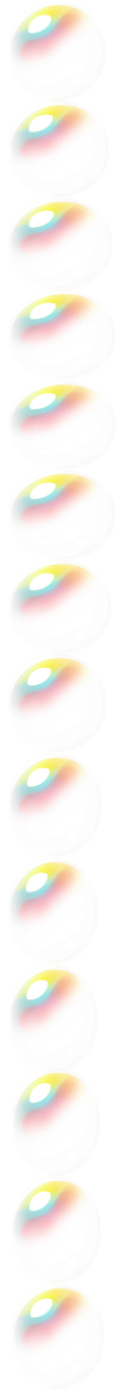
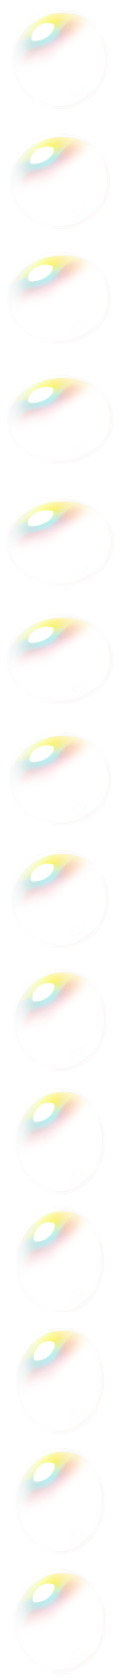
Working bubble animation

Changed region(s): [[0.1, 0.2778, 0.75, 0.8952], [0.125, 0.0, 0.725, 0.2469], [0.15, 0.9261, 0.675, 0.9878]]

diff --git a/src/GameObjects/Bubble.cpp b/src/GameObjects/Bubble.cpp
@@ -3,7 +3,9 @@
 
 Bubble::Bubble(const Data& ObjectData, World& world, const sf::Texture& texture) 
     : ClickableObject(ObjectData, texture),
-    m_animation(ResourceManager::getInstance().getAnimation(ObjectData.m_type), this->getSprite())
+    m_animation(ResourceManager::getInstance().getAnimation(ObjectData.m_type), 
+        this->getSprite(),
+        true)
 {
 
     //TODO CHANGE SETTINGS IF NEEDED
@@ -12,14 +14,9 @@ Bubble::Bubble(const Data& ObjectData, World& world, const sf::Texture& texture)
 
     bodyDef.type = b2_staticBody; // Set the body type to dynamic
     bodyDef.position.Set(ObjectData.m_pos.x / SCALE , (WINDOW_MANAGER_HEIGHT - ObjectData.m_pos.y) / SCALE); // Set the initial position
-    bodyDef.angle = 0.0f; // Set the initial angle
-    bodyDef.linearVelocity.Set(0.0f, 0.0f); // Set the initial linear velocity
-    bodyDef.angularVelocity = 0.0f; // Set the initial angular velocity
-    bodyDef.linearDamping = 0.0f; // Set the linear damping
-    bodyDef.angularDamping = 0.0f; // Set the angular damping
 
     b2CircleShape circleShape;
-    circleShape.m_radius = texture.getSize().x / 2.0f / SCALE; // Set the radius (assuming square texture)
+    circleShape.m_radius = BUBBLE_SIZE.x / 2.0f / SCALE; // Set the radius (assuming square texture)
 
     // Define the fixture
 
@@ -40,6 +37,7 @@ Bubble::Bubble(const Data& ObjectData, World& world, const sf::Texture& texture)
 
 void Bubble::changeToDynamic()
 {
+    this->m_animation.setAnimationFlag(true);
     this->setToDynamic();
     this->SetLinearVelocity(BUBBLE_VELOCITY);
 }
@@ -49,6 +47,7 @@ void Bubble::update(sf::Time& deltaTime)
     if (this->getBody()->GetType() == b2_dynamicBody)
     {
         this->getBody()->ApplyForceToCenter(BUBBLE_FORCE, true);
+        this->m_animation.update(deltaTime);
     }
 
     b2Vec2 position = this->getBody()->GetPosition();

diff --git a/src/Animations/Animation.cpp b/src/Animations/Animation.cpp
@@ -3,15 +3,15 @@
 
 const auto AnimationTime = sf::seconds(0.08f);
 
-Animation::Animation(const ListOfFrames& data, sf::Sprite& sprite)
-    : m_data(data), m_sprite(sprite), m_animationFlag(false)
+Animation::Animation(const ListOfFrames& data, sf::Sprite& sprite, bool looping)
+    : m_data(data), m_sprite(sprite), m_showAnimation(false), m_looping(looping)
 {
     update();
 }
 
 void Animation::update(sf::Time delta)
 {
-    if(m_animationFlag)
+    if(m_showAnimation)
     {
         m_elapsed += delta;
         if (m_elapsed >= AnimationTime)
@@ -20,8 +20,12 @@ void Animation::update(sf::Time delta)
             ++m_index;
             if (m_index == m_data.size())
             {
-                m_animationFlag = false;
+                if(!m_looping)
+                {
+                    m_showAnimation = false;
+                }
                 m_index = 0;
+
             }
             update();
         }
@@ -32,7 +36,7 @@ void Animation::update(sf::Time delta)
 
 void Animation::setAnimationFlag(const bool& flag)
 {
-    this->m_animationFlag = flag;
+    this->m_showAnimation = flag;
 }
 
 void Animation::update()

diff --git a/include/Animations/Animation.h b/include/Animations/Animation.h
@@ -10,7 +10,7 @@ using ListOfFrames = std::vector<sf::IntRect>;
 class Animation
 {
 public:
-    Animation(const ListOfFrames& data, sf::Sprite& sprite);
+    Animation(const ListOfFrames& data, sf::Sprite& sprite, bool looping);
 
     // Add more time to the elapsed time; if enough time passed, it
     // updates the sprite to show the next frame in the animation
@@ -26,5 +26,6 @@ private:
     sf::Time m_elapsed = {};
     int m_index = 0;
     sf::Sprite& m_sprite;
-    bool m_animationFlag;
+    bool m_showAnimation,
+        m_looping;
 };

diff --git a/include/Settings.h b/include/Settings.h
@@ -21,7 +21,9 @@ LEVEL_SELECT_ROWS_LEVELS = 1,
 MAX_LEVELS_ROW_LEVEL_SELECT = 10;
 
 // Object Sizes
-const sf::Vector2f AIR_PILLOW_SIZE = { 119 , 127 }, OMNOM_SIZE = { 130 ,146 };
+const sf::Vector2f AIR_PILLOW_SIZE = { 119 , 127 },
+                    OMNOM_SIZE = { 130 ,146 },
+                    BUBBLE_SIZE = { 110, 96 };
 
 
 const sf::Vector2f MENU_BUTTON_DEFA_SIZE = { 1.0f, 1.0f },
@@ -67,7 +69,3 @@ BUBBLE_FORCE(0.0f, 150.0f);
 
 
 const enum levelStatus_t { Won, OnGoing, Lost };
-
-enum class AnimationType {
-    OmnomEating
-};

diff --git a/src/GameObjects/Omnom.cpp b/src/GameObjects/Omnom.cpp
@@ -2,7 +2,9 @@
 
 Omnom::Omnom(const Data& ObjectData, World& world, const sf::Texture& texture) : 
     NonClickableObject(ObjectData, texture) ,
-    m_animation(ResourceManager::getInstance().getAnimation(ObjectData.m_type), this->getSprite()) // TODO if have more need to change
+    m_animation(ResourceManager::getInstance().getAnimation(ObjectData.m_type), 
+        this->getSprite(),
+        false) // TODO if have more need to change
 {
     b2BodyDef bodyDef;
     b2FixtureDef fixtureDef;

diff --git a/src/GameObjects/AirPillow.cpp b/src/GameObjects/AirPillow.cpp
@@ -4,7 +4,9 @@ AirPillow::AirPillow(const Data& ObjectData,
 	World& world, const sf::Texture& texture) : 
     ClickableObject(ObjectData, texture),
     m_data(ObjectData), m_world(world), 
-    m_animation(ResourceManager::getInstance().getAnimation(ObjectData.m_type), this->getSprite())
+    m_animation(ResourceManager::getInstance().getAnimation(ObjectData.m_type), \
+                this->getSprite(),
+                   false)
 {
     b2BodyDef bodyDef;
     b2FixtureDef fixtureDef;

diff --git a/src/ResourceManager.cpp b/src/ResourceManager.cpp
@@ -93,7 +93,7 @@ void ResourceManager::loadAnimations()
 {
     this->loadAnimation("AirPillow", 160, 6);
     this->loadAnimation("Omnom", 102, 34);
-    this->loadAnimation("Bubble", 99, 14);
+    this->loadAnimation("Bubble", 120, 14);
 
 }
 
